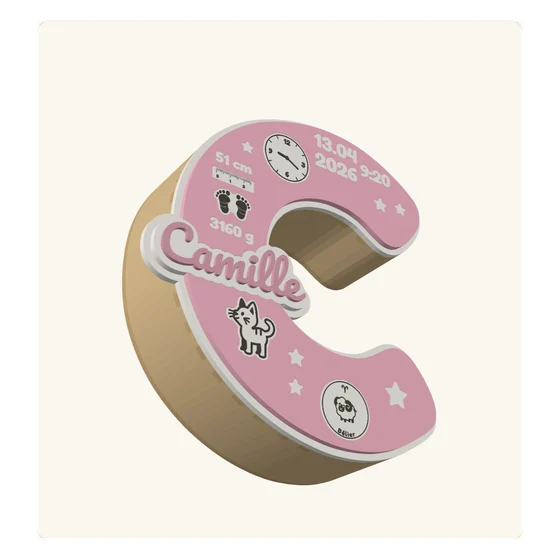
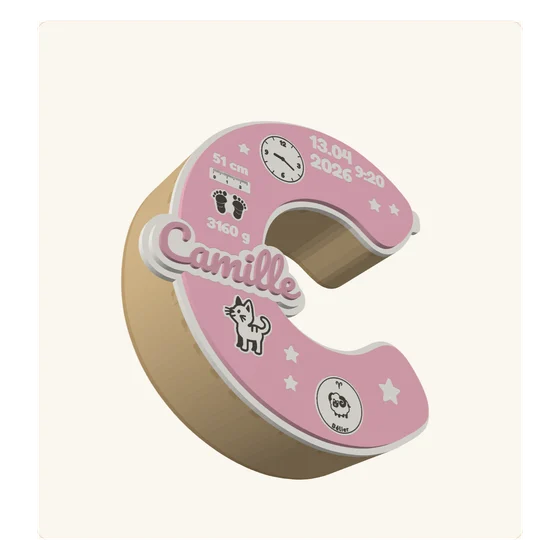
Boîtes : petite languette discrète sur le couvercle, pour l'ouvrir (maquettes)
Le couvercle (fond blanc de la lettre, ou couvercle plein de la boîte seule)
porte une petite patte arrondie qui dépasse du bord de la boîte, du côté où
il tient encore dans la zone de la machine. Case à cocher dans le volet de
la boîte. Gestion n'est pas modifié.

Claude-Session: https://claude.ai/code/session_013Nt78VnTBT8S9aqZe85f4z

diff --git a/tools/maquettes/lettre-incrustee.js b/tools/maquettes/lettre-incrustee.js
@@ -99,7 +99,7 @@ function neuf() { var el = { plaque: { on: true, mode: 'inc', k: 1, auto: true, 
   return { v: 1, modele: 'naissance', nom: '', lettre: '', pol: 'fredoka', polNom: 'pacifico', H: 165, gras: 0, bord: 3, coul: 'rose', date: '', heure: '', taille: '', poids: '', libre: '',
     signe: 'auto', signeStyle: 'dessin', horloge: 'grave', decor: 'etoiles', animal: 'chat', nbEt: 6, el: el, zw: 180, zh: 180, zdef: 180, trait: 0.1, jeu: 0.1, ep: 3, sel: null, vue: 'face', num: false, exemple: false,
     bforme: 'lettre', bw: 120,
-    bt: { on: true, prof: 40, rayon: 8, cour: 5, jeuC: 0.2, pas: 2, pad: 10, nb: 0, dos: true, rep: true, plaque: false } }; }
+    bt: { on: true, prof: 40, rayon: 8, cour: 5, jeuC: 0.2, pas: 2, pad: 10, nb: 0, dos: true, rep: true, plaque: false, poig: true } }; }
 /* « boîte seule » : le même outil, sans la lettre décorée. La boîte prend la forme d'une lettre, d'un chiffre ou d'une forme simple ; le couvercle est une pièce pleine */
 var SEULE = /boite/.test(location.hash || ''), FORMES = [['lettre', 'Lettre ou chiffre'], ['rect', 'Rectangle'], ['rond', 'Rond'], ['ovale', 'Ovale'], ['coeur', 'Cœur']];
 function cleMem() { return SEULE ? 'niv-boite-seule' : 'niv-lettre-incrustee'; }
@@ -257,6 +257,8 @@ function calculer() { var an0 = animalChoisi(); var nd = {}; ELS.forEach(functio
   g.dessus = moins(L, decaler(toutes, S.jeu)); g.gravD = inter(unir(gravD), L);
   g.fond = unir(decaler(L, bordB()), P && pq.mode === 'inc' ? decaler(P.plaqueA, S.bord) : []); g.bf = boite(g.fond); calculerBoite(g);
   if (SEULE) { g.dessus = []; g.gravD = []; if (g.bt) { g.fond = g.bt.O; g.bf = boite(g.fond); } }
+  /* la petite languette du couvercle, pour l'ouvrir (gérant, 13/11/2026 : « des petites poignées discrètes… c'est pour ouvrir ») */
+  g.poig = null; if (g.bt && S.bt.poig !== false) { var lg = languette(g); if (lg) { g.poig = lg; g.fond = unir(g.fond, lg.a); g.bf = boite(g.fond); } }
   /* les centres de couleur qui tombent à la découpe */
   var ex = exPolys(g.dessus).map(function (e) { return { a: Math.abs(CL.Clipper.Area(e.outer)) / (E * E), b: boite([e.outer]), p: [e.outer].concat(e.holes) }; }).sort(function (a, b) { return b.a - a.a; });
   var bouche = decaler(pleins(toutes), S.jeu + 0.3); g.centres = ex.filter(function (c, i) { return i > 0 && aire(moins(c.p, bouche)) < 0.01; }); g.parts = ex.length - g.centres.length; g.petits = g.centres.filter(function (c) { return Math.min(c.b.w, c.b.h) < 2; }).length;
@@ -310,6 +312,29 @@ function morceauBande(o) { var T = o.T, Hm = o.Hm, p = o.p, len = o.b - o.a, d =
     else for (k = 0; k <= nb; k++) { var y0 = k ? T + (k - 0.5) * U + pont / 2 : T, y1 = k < nb ? T + (k + 0.5) * U - pont / 2 : Hm - T; lignes.push([[x, y0], [x, y1]]); } }
   return { poly: [po(poly.map(function (a) { return pt(a[0], a[1]); }))], lignes: lignes, long: len + d, fentes: lignes.length }; }
 var BTC = { cle: '', bt: null, al: [] };
+/* Languette du couvercle : une petite patte arrondie qui dépasse du bord de la boîte, là où le contour va le plus loin (toujours accessible),
+   du côté où le couvercle tient encore dans la zone de la machine. Elle fait partie du couvercle (fond blanc, ou couvercle plein de la boîte seule). */
+function languette(g) { var O = g.bt.O[0], u = Math.min(1.6, Math.max(0.8, (S.H || 170) / 170)) /* jamais trop petite pour le doigt, jamais énorme */, W = 14 * u, L0 = 5 * u, P = 6 * u, k2 = S.trait / 2;
+  var zw = (+S.zw || 180) - 4 - 2 * k2, zh = (+S.zh || 180) - 4 - 2 * k2, b0 = boite(g.fond), bo = boite([O]), mx = bo.x + bo.w / 2, my = bo.y + bo.h / 2, pts = [], i, j;
+  for (i = 0; i < O.length; i++) { var a = O[i], b = O[(i + 1) % O.length], n = Math.max(1, Math.ceil(Math.hypot(b.X - a.X, b.Y - a.Y) / E)); for (j = 0; j < n; j++) pts.push([(a.X + (b.X - a.X) * j / n) / E, (a.Y + (b.Y - a.Y) * j / n) / E]); }
+  function essai(dx, dy, Lg) { var m = -1e9, l = [], gr = [], cur = null, best = null, r = Math.min(Lg, W / 2) * 0.9;
+    pts.forEach(function (q) { var v = q[0] * dx + q[1] * dy; if (v > m) m = v; });
+    pts.forEach(function (q) { if (q[0] * dx + q[1] * dy >= m - 0.3) l.push(-q[0] * dy + q[1] * dx); }); l.sort(function (x, y) { return x - y; });
+    l.forEach(function (v) { if (cur && v - cur[1] <= 6) cur[1] = v; else { cur = [v, v]; gr.push(cur); } });
+    var cen = -mx * dy + my * dx; gr.forEach(function (q) { var c = (q[0] + q[1]) / 2; if (best === null || Math.abs(c - cen) < Math.abs(best - cen)) best = c; });
+    function G2(aa, bb) { return pt(m * dx - best * dy + aa * dx - bb * dy, m * dy + best * dx + aa * dy + bb * dx); }
+    var p = [G2(-P, -W / 2), G2(Lg - r, -W / 2)]; arc(Lg - r, -W / 2 + r, r, -90, 0, 8).forEach(function (q) { p.push(G2(q[0], q[1])); }); arc(Lg - r, W / 2 - r, r, 0, 90, 8).forEach(function (q) { p.push(G2(q[0], q[1])); }); p.push(G2(-P, W / 2));
+    var t = [po(p)], f = unir(g.fond, t), bb = boite(f);
+    /* le pied de la languette est adouci (pas d'angle vif où le bois casserait) */
+    var zone = [po([G2(-P - 3, -W / 2 - 6), G2(Lg + 1, -W / 2 - 6), G2(Lg + 1, W / 2 + 6), G2(-P - 3, W / 2 + 6)])], doux = decaler(decaler(inter(f, zone), 2 * u), -2 * u);
+    /* elle « tient » si elle n'agrandit pas le couvercle au-delà de la zone (une lettre déjà trop large reste signalée par l'alerte des planches) */
+    var dw = bb.w > b0.w + 0.01 ? bb.w - zw : 0, dh = bb.h > b0.h + 0.01 ? bb.h - zh : 0;
+    return { a: unir(t, doux), ok: dw <= 0.01 && dh <= 0.01, trop: Math.max(dw, dh, 0), long: Lg, cote: dx > 0 ? 'à droite' : dx < 0 ? 'à gauche' : dy > 0 ? 'en bas' : 'en haut' }; }
+  var cs = [[1, 0], [-1, 0], [0, 1], [0, -1]], tous = cs.map(function (c) { return essai(c[0], c[1], L0); });
+  for (i = 0; i < 4; i++) if (tous[i].ok) return tous[i];
+  /* aucun côté à la taille prévue : un peu plus courte (jamais moins de 3,5 mm), du côté où elle tient */
+  for (i = 0; i < 4; i++) { var L2 = L0 - tous[i].trop - 0.05; if (L2 >= 3.5 * u) { var e = essai(cs[i][0], cs[i][1], L2); if (e.ok) return e; } }
+  return tous[0]; }
 function calculerBoite(g) { var B = S.bt, T = +S.ep || 3, al = g.alertes; g.bt = null; if (!B || (!B.on && !SEULE)) return;
   var pq0 = S.el.plaque, cle = JSON.stringify([SEULE, S.bforme, S.bw, lettreChoisie(), S.pol, S.gras, S.H, S.bord, S.ep, S.jeu, S.trait, S.zw, S.zh, B, B.plaque && g.P ? [S.nom, S.polNom, pq0.fx, pq0.fy, pq0.k, pq0.mode] : 0]);
   if (BTC.cle === cle) { BTC.al.forEach(function (t) { al.push(t); }); if (BTC.bt) { g.bt = BTC.bt; g.fond = unir(pleins(g.fond), BTC.bt.O); g.bf = boite(g.fond); } return; }
@@ -369,7 +394,7 @@ function essaiCharniere() { var B = S.bt, T = +S.ep || 3, Hm = +B.prof || 40, p 
 /* ---------- les planches ---------- */
 function planches(g) { var k2 = S.trait / 2, blancs = [], coul = [];
   function bloc(id, nom, coupe, grav, n) { var b = boite(coupe); return { id: id, nom: nom, n: n, coupe: coupe, grav: grav || [], b: b }; }
-  if (SEULE) { g.pages = g.bt ? ranger([bloc('boite-couvercle', 'Couvercle (pièce pleine)', decaler(g.bt.O, k2), null, 'CV')].concat(blocsBoite(g)), 'Bois de la boîte', 'boite') : []; return; }
+  if (SEULE) { g.pages = g.bt ? ranger([bloc('boite-couvercle', 'Couvercle (pièce pleine)', decaler(g.fond, k2), null, 'CV')].concat(blocsBoite(g)), 'Bois de la boîte', 'boite') : []; return; }
   blancs.push(bloc('fond', 'Fond', decaler(g.fond, k2), null, 'F'));
   if (g.P && S.el.plaque.mode === 'inc') blancs.push(bloc('plaque', 'Plaque du prénom', decaler(g.P.plaqueA, k2), null, 'P'));
   g.els.forEach(function (a) { if (a.e.mode === 'inc') blancs.push(bloc('piece-' + a.n + '-' + a.d.id, a.d.nom, decaler(a.B, k2), a.Gv, a.n)); });
@@ -485,7 +510,7 @@ function listeBoite() { var g = G, T = [], bt = g.bt; T.push('BOÎTE SEULE — '
       'BC  Couronne du haut : même contour, mêmes encoches, ' + fr(S.bt.cour) + ' mm de rebord.' + (bt.dos ? '\nBD  Dos : plaque pleine collée sous le fond, elle cache les tenons.' : ''));
     bt.mor.forEach(function (m) { T.push(m.nom + '  Bande ' + m.nom + ' : ' + fr(m.long, 0) + ' x ' + fr(bt.Hm, 0) + ' mm, ' + m.fentes + ' fentes.'); });
     T.push('', 'Montage : 1. plier doucement chaque morceau de bande (fil du bois dans le sens des fentes), la lettre gravée sur la bande va en face de la même lettre gravée sur le fond. 2. emboîter et coller les tenons du bas dans le fond, morceau après morceau, en fermant les jonctions. 3. poser et coller la couronne sur les tenons du haut.'
-      + (bt.dos ? ' 4. coller le dos sous le fond.' : '') + ' Couvercle : poser la cale dans la couronne, mettre de la colle dessus, poser le couvercle bien aligné sur le contour, laisser sécher : la cale est à sa place.'); }
+      + (bt.dos ? ' 4. coller le dos sous le fond.' : '') + ' Couvercle : poser la cale dans la couronne, mettre de la colle dessus, poser le couvercle bien aligné sur le contour, laisser sécher : la cale est à sa place.' + (g.poig ? ' La petite languette du couvercle (' + g.poig.cote + ') dépasse de la boîte : elle sert à l\'ouvrir.' : '')); }
   if (g.alertes.length) { T.push('', 'À revoir :'); g.alertes.forEach(function (t) { T.push('- ' + t); }); }
   return T.join('\n') + '\n'; }
 function listeTexte() { if (SEULE) return listeBoite(); var g = G, T = [], c = (COULEURS.filter(function (q) { return q[0] === S.coul; })[0] || COULEURS[0])[1];
@@ -501,7 +526,7 @@ function listeTexte() { if (SEULE) return listeBoite(); var g = G, T = [], c = (
       'BK  Cale du couvercle : à coller sous le couvercle, elle entre dans la couronne (jeu ' + fr(S.bt.jeuC, 2) + ' mm).' + (bt.dos ? '\nBD  Dos : plaque pleine collée sous le fond, elle cache les tenons.' : ''));
     bt.mor.forEach(function (m) { T.push(m.nom + '  Bande ' + m.nom + ' : ' + fr(m.long, 0) + ' x ' + fr(bt.Hm, 0) + ' mm, ' + m.fentes + ' fentes.'); });
     T.push('Montage de la boîte : 1. plier doucement chaque morceau de bande (fil du bois dans le sens des fentes), la lettre gravée sur la bande va en face de la même lettre gravée sur le fond. 2. emboîter et coller les tenons du bas dans le fond, morceau après morceau, en fermant les jonctions. 3. poser et coller la couronne sur les tenons du haut.'
-      + (bt.dos ? ' 4. coller le dos sous le fond.' : '') + ' Couvercle : poser la cale dans la couronne, mettre de la colle dessus, poser le couvercle bien aligné sur le contour, laisser sécher : la cale est à sa place.'); }
+      + (bt.dos ? ' 4. coller le dos sous le fond.' : '') + ' Couvercle : poser la cale dans la couronne, mettre de la colle dessus, poser le couvercle bien aligné sur le contour, laisser sécher : la cale est à sa place.' + (g.poig ? ' La petite languette du couvercle (' + g.poig.cote + ') dépasse de la boîte : elle sert à l\'ouvrir.' : '')); }
   var Tx = textes(); if (Tx.heure && g.els.some(function (a) { return a.d.id === 'horloge'; })) T.push('', 'Horloge : aiguilles à ' + Tx.heure + '. ' + (S.horloge === 'ajour' ? 'Le rond de couleur du milieu ne rentre que dans un sens : le grand trait blanc est en haut (12), le trait moyen à droite (3). Les aiguilles blanches se posent dans leur emplacement.' : 'Cadran d\'une seule pièce : le tour, les traits, les chiffres et les aiguilles sont gravés, rien à orienter.'));
   T.push('', 'Ordre de montage : 1. coller le dessus de couleur sur le fond blanc. 2. poser chaque pièce blanche dans son emplacement (numéros du plan de pose). 3. recoller les petits centres de couleur. 4. coller le prénom sur sa plaque.');
   if (g.alertes.length) { T.push('', 'À revoir :'); g.alertes.forEach(function (t) { T.push('- ' + t); }); }
@@ -526,7 +551,7 @@ function champs() { ['bw', 'nom', 'lettre', 'H', 'gras', 'bord', 'date', 'heure'
   ['pol', 'polNom', 'signe', 'animal', 'signeStyle', 'horloge', 'decor'].forEach(function (k) { $('f-' + k).value = S[k]; });
   $('f-lettre').placeholder = lettreChoisie(); var sg = signeChoisi(); $('signeAuto').textContent = S.signe === 'auto' ? (sg >= 0 ? 'Calculé avec la date : ' + SIGNES[sg] + '.' : 'Se calcule avec la date.') : '';
   $('coul').innerHTML = COULEURS.map(function (c) { return '<button type="button" data-c="' + c[0] + '" class="' + (S.coul === c[0] ? 'on' : '') + '" aria-pressed="' + (S.coul === c[0]) + '"><i style="background:' + c[2] + '"></i>' + c[1] + '</button>'; }).join('');
-  ['prof', 'rayon', 'cour', 'jeuC', 'pas', 'pad'].forEach(function (k) { var el = $('b-' + k); if (el && document.activeElement !== el) el.value = S.bt[k]; }); $('b-on').checked = !!S.bt.on; $('b-dos').checked = !!S.bt.dos; $('b-rep').checked = !!S.bt.rep; $('b-plaque').checked = !!S.bt.plaque; $('b-nb').value = String(S.bt.nb); $('b-regl').hidden = !S.bt.on;
+  ['prof', 'rayon', 'cour', 'jeuC', 'pas', 'pad'].forEach(function (k) { var el = $('b-' + k); if (el && document.activeElement !== el) el.value = S.bt[k]; }); $('b-on').checked = !!S.bt.on; $('b-dos').checked = !!S.bt.dos; $('b-rep').checked = !!S.bt.rep; if ($('b-poig')) $('b-poig').checked = S.bt.poig !== false; $('b-plaque').checked = !!S.bt.plaque; $('b-nb').value = String(S.bt.nb); $('b-regl').hidden = !S.bt.on;
   $('b-info').textContent = G && G.bt ? 'Automatique : ' + G.bt.nAuto + ' morceau' + (G.bt.nAuto > 1 ? 'x' : '') + ' pour une zone de ' + S.zw + ' mm de large.' : '';
   $('f-bforme').value = S.bforme; var fs = formeSimple(); $('l-bw').hidden = !SEULE || S.bforme === 'rond' || S.bforme === 'coeur' || !fs;
   ['l-lettre', 'l-pol', 'l-gras', 'l-bord'].forEach(function (i) { $(i).hidden = SEULE && fs; });
@@ -559,7 +584,7 @@ function init() { SOUS = $('sous').textContent; $('f-bforme').innerHTML = FORMES
     maj(true); champs(); });
   document.addEventListener('change', function (ev) { var t = ev.target, id = t.getAttribute && t.getAttribute('data-mode');
     if (t.id === 'f-bforme') { S.bforme = t.value; maj(); return; }
-    if (t.id === 'b-on' || t.id === 'b-dos' || t.id === 'b-rep' || t.id === 'b-plaque') { S.bt[t.id.slice(2)] = t.checked; maj(); return; } if (t.id === 'b-nb') { S.bt.nb = +t.value || 0; maj(); return; }
+    if (t.id === 'b-on' || t.id === 'b-dos' || t.id === 'b-rep' || t.id === 'b-plaque' || t.id === 'b-poig') { S.bt[t.id.slice(2)] = t.checked; maj(); return; } if (t.id === 'b-nb') { S.bt.nb = +t.value || 0; maj(); return; }
     if (!id) return; var e = S.el[id];
     if (t.value === 'non') e.on = false; else { e.on = true; e.mode = t.value; } maj(); });
   document.addEventListener('click', function (ev) { var t = ev.target.closest ? ev.target.closest('button') : null; if (!t) return; var e = S.sel ? S.el[S.sel] : null, a;

diff --git a/tools/maquettes/lettre-incrustee.py b/tools/maquettes/lettre-incrustee.py
@@ -156,6 +156,7 @@ HTML = r"""<div class="li">
    <label class="l2">Bande de côté en combien de morceaux<select id="b-nb"><option value="0">Automatique (selon la zone de la machine)</option><option value="1">1</option><option value="2">2</option><option value="3">3</option><option value="4">4</option><option value="5">5</option><option value="6">6</option><option value="8">8</option><option value="10">10</option><option value="12">12</option></select><small id="b-info"></small></label>
    <label class="li-case l2 pasb"><input type="checkbox" id="b-plaque"> La boîte suit aussi la plaque du prénom (sinon la plaque dépasse de la boîte et sert de prise)</label>
    <label class="li-case l2"><input type="checkbox" id="b-dos"> Plaque pleine sous la boîte (elle cache les tenons)</label>
+   <label class="li-case l2"><input type="checkbox" id="b-poig"> Petite languette discrète sur le bord du couvercle, pour l'ouvrir</label>
    <label class="li-case l2"><input type="checkbox" id="b-rep"> Graver une lettre de repère (A, B, C…) sur chaque morceau de bande et sur le fond</label>
    <small class="l2" id="b-note"></small>
   </div></div></details>

diff --git a/CLAUDE.md b/CLAUDE.md
@@ -1,5 +1,5 @@
 ## 👶 MAQUETTE « LETTRE DE NAISSANCE », VERSION SIMPLE POUR LES CLIENTES — 13/11/2026 soir (gérant, devant l'outil lettre : « tu touches pas à l'atelier que tu m'as fait, j'aime bien tous les détails… il faut que tu facilites au maximum pour les clients, pour mettre sur le site. Ne mets rien sur le site… dans admin tu laisses comme c'est… une deuxième version des produits qu'on a mis ») — EN ATTENTE DE SON AVIS, RIEN en ligne
-- **Artifact** https://claude.ai/artifact/KGkiaB9gP3qSj1xHqtiDLo (v4) · `python3 tools/maquettes/lettre-client.py <page de base> <clipper.js> <opentype.min.js> <sortie.html>`
+- **Artifact** https://claude.ai/artifact/KGkiaB9gP3qSj1xHqtiDLo (v5) · `python3 tools/maquettes/lettre-client.py <page de base> <clipper.js> <opentype.min.js> <sortie.html>`
   (`<page de base>` = sortie d'un autre créateur, ex. `arbre-base.html` ; sortie de 2,1 Mo non commitée).
 - **Principe** : la fiche du site + un parcours court, par-dessus le MÊME calcul que l'outil d'atelier, sans y toucher : `lettre-incrustee.js` et les champs de `lettre-incrustee.py`
   sont posés dans la page mais CACHÉS (`<div hidden id="moteur">`), la couche cliente (`window.NivLettreCliente`) écrit dans `NivLettre.etat()` puis `NivLettre.maj()`.
@@ -22,6 +22,13 @@
   centré là où il repose le plus (`bandes`, `meilleur`), et il rétrécit (jusqu'à 0,4) tant que moins de la moitié de sa plaque est sur la lettre (`partReelle`, mesure de surface ; `poser`,
   cache `PLQ`). Mesuré sur 78 prénoms (26 lettres × court, moyen, long) : au moins 52 % sur la lettre partout, plus petite taille 0,46. ⛔ L'outil d'atelier et L'atelier de Gestion gardent
   LEUR placement (non touchés, sa consigne) : question posée, veut-il la même règle là aussi ? Images d'exemple refaites. Essais : t2, t5, t8 au vert, planche des 26 lettres regardée.
+- 🤏 **LANGUETTE DU COUVERCLE (13/11 soir, gérant : « pour les boîtes, tu peux faire des petites poignées discrètes… c'est pour ouvrir »)** : dans le MOTEUR (`lettre-incrustee.js`,
+  `languette(g)`, `S.bt.poig`, coché d'office, case « Petite languette discrète sur le bord du couvercle, pour l'ouvrir » dans le volet de la boîte) : une petite patte arrondie
+  (14 × 5 mm à 170 mm de haut, jamais moins de 11 × 4 mm) qui fait partie du couvercle (fond blanc de la lettre, ou couvercle plein `CV` de la boîte seule) et dépasse du bord de la boîte,
+  là où le contour va le plus loin : à droite d'abord, sinon à gauche, en bas, en haut, du côté où le couvercle tient encore dans la zone de la machine (raccourcie jusqu'à 3,5 mm si besoin) ;
+  pied adouci ; dite dans le texte de montage. Essais : 36 lettres et chiffres + 8 boîtes seules (`scratchpad/lettre/tp.cjs`), t3, t7, t14, t15 au vert, t11 = ses 2 faux KO connus.
+  Lettre d'atelier **v12**, cliente **v5**. ⛔ PAS encore dans Gestion (`public/atelier-outils/lettre.html`) ni dans l'artifact L'atelier : attendre son mot (il a dit le même soir « dans admin tu laisses comme c'est »).
+  ⚠ Constaté au passage : à 165 mm de haut, les lettres M (184 mm), Q (179 mm) et W (220 mm) sont plus larges que la zone de 180 mm (déjà avant la languette ; l'outil le signale).
 - ✅ **PRIX DONNÉ PAR LE GÉRANT LE 13/11 SOIR (« pour la boîte, ça va ensemble de toute façon, pour les deux 54,90 € »)** : **54,90 € la lettre ET sa boîte, toujours ensemble** (plus de « lettre seule », plus de supplément boîte ; tout ce que la cliente choisit est compris). `PRIX = {"ensemble": 54.9}`, `C.boite` toujours vrai. Maquette v4. Anciens prix proposés : `docs/prix-historique.md`.
 - **Proposé par moi, à valider** : une seule taille, 16,5 cm · les 7 couleurs = celles de l'aperçu de l'outil, à remplacer par ses vraies couleurs · texte libre, horloge ajourée, « Gravé »,
   réglages de la boîte non proposés à la cliente · catégorie « Bébé & Enfant ».

diff --git a/docs/EN-ATTENTE.md b/docs/EN-ATTENTE.md
@@ -1,4 +1,5 @@
 # 📋 TOUT CE QUI EST EN ATTENTE — inventaire de reprise
+- **13/11 soir — Languette pour ouvrir les boîtes** : faite dans les maquettes (lettre d'atelier v12 https://claude.ai/artifact/WeB2GPqJNDTcntagUx1HSw, lettre cliente v5). **Question posée : la mettre aussi dans L'atelier de Gestion ?** (régénérer `public/atelier-outils/lettre.html` = `python3 tools/maquettes/lettre-incrustee.py <clipper> <opentype> <sortie> complet`, puis build et push). À lui dire aussi : M, Q et W sont plus larges que la zone de 180 mm à 165 mm de haut.
 - **13/11 — Devis DEV-1544 (Coline Goossens, verre à whisky)** : le gérant a dit « Coline tu laisses tomber ». La correction de la fiche atelier gardée de côté depuis le 12/11 (« C'est chic ! » au fond seulement, rien sous la photo) est ABANDONNÉE, non envoyée. ⚠ La fiche atelier en ligne de ce devis dit encore de graver « C'est chic ! » sous la photo : si la commande revient, relire sa demande avant de graver.
 - **13/11 — Commande 06W69SNX (cristal vertical Petit + socle, cadeau de Mohammad Abu Jamous pour Dayana, Express Chronopost)** : sa photo venait d'une capture de vidéo (bouton lecture et icône de son en bas) ; le gérant les a effacés. Mail « aperçu à valider » envoyé par le site le 13/11 à 19 h 08 (image `/api/img/qNQIokUoOyyZrXeqaQbx` = aperçu + ce qui a été effacé). ⛔ **Ne pas graver avant son accord** ; sa réponse arrive dans le dossier de la commande. Rappels : aucun prix ni facture dans le colis, emballage soigné (promis le 11/11).
 - **06/11 — Maquette « Gravure en tamoul »** (https://claude.ai/artifact/A1LsiJozYynsZoRGYnrjcx) : v2 = aperçus du SITE : 6 verres + 3 mots courts + 5 bijoux 3D, 19 phrases.
